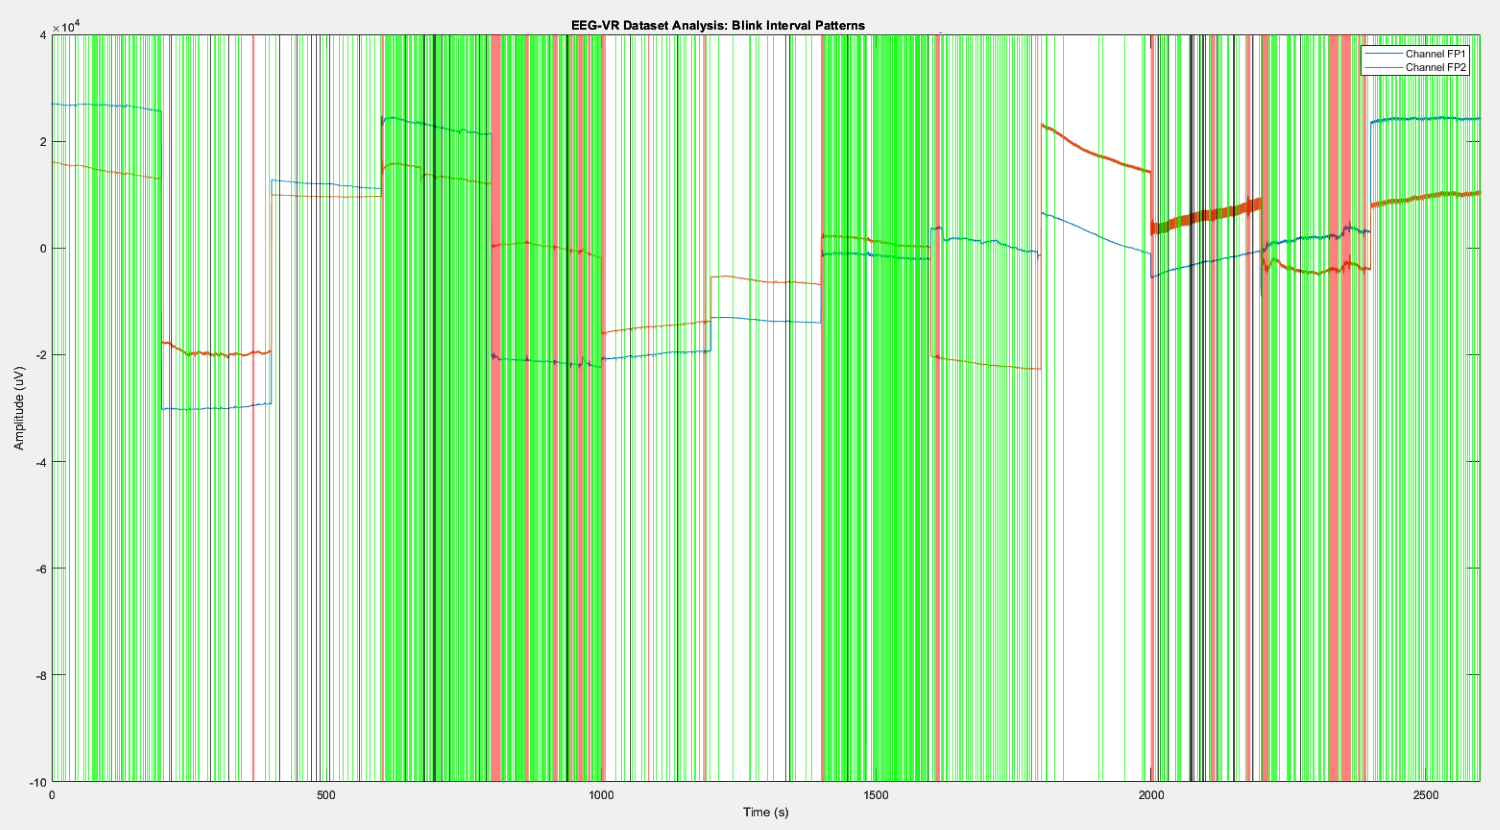
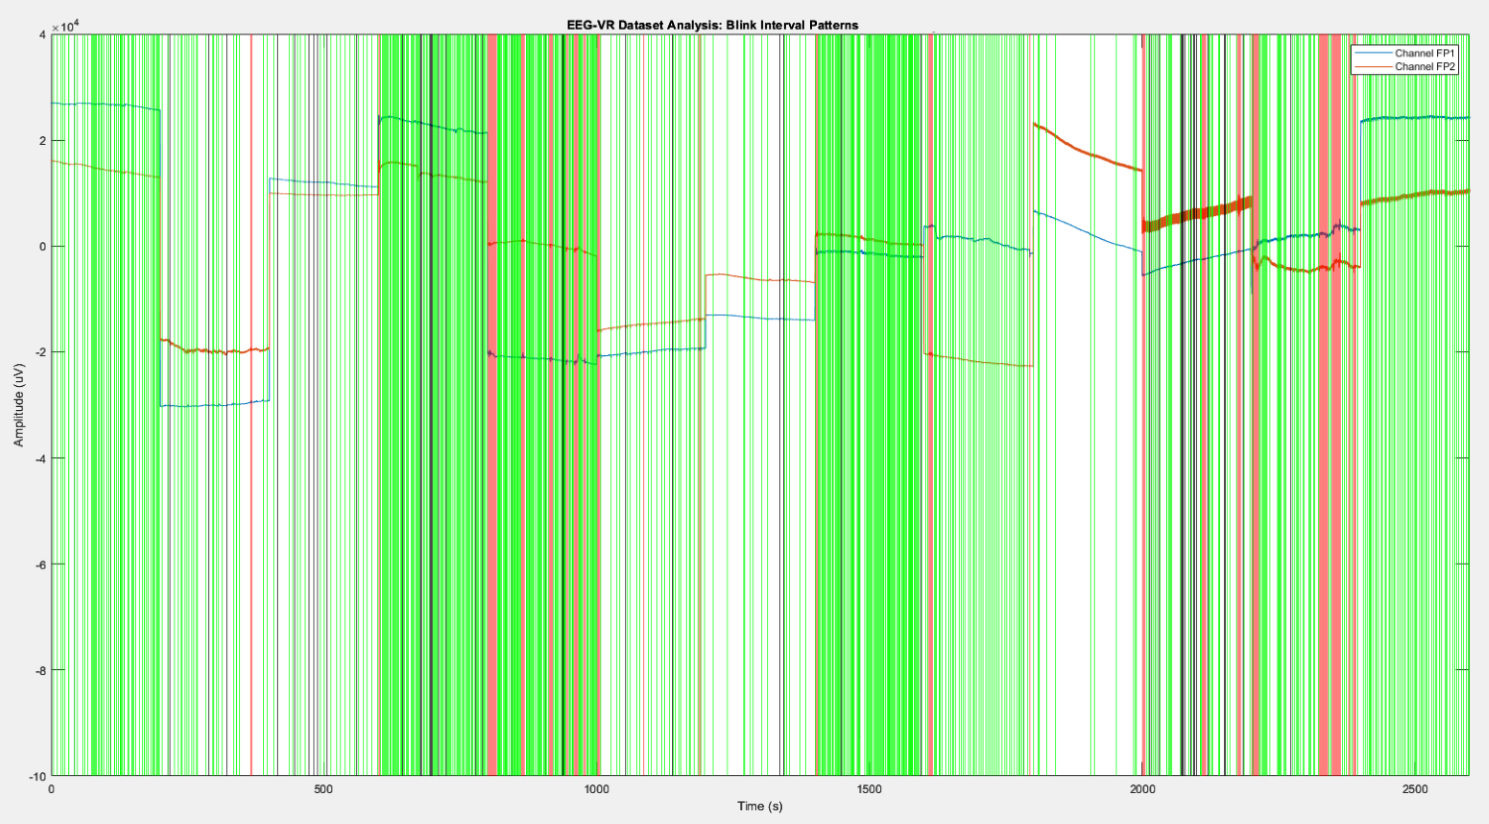
Image and conclusion update

diff --git a/README.md b/README.md
@@ -170,22 +170,24 @@ The EEG-VV and EEG-VR datasets consisted of involuntary eye-blinks (natural blin
 
 <table>
   <tr>
-    <td align="center">EEG-IO Blink interval patterns</td>
-    <td>
-      <img src="./imgs/GNAN_dataset/Raw_All_Subjects_EEG-IO.png" alt="GNAN raw data visualization IO" min-width="100px" max-width="300px" height="auto">
-    </td>
+    <td align="center"></td>
+    <td align="center">corrupt data with blink interval patterns</td>
+    <td align="center">corrupt data without blink interval patterns</td>
   </tr>
   <tr>
-    <td align="center">EEG-VR Blink interval patterns</td>
-    <td>
-      <img src="./imgs/GNAN_dataset/Raw_All_Subjects_EEG-VR.png" alt="GNAN raw data visualization VR" min-width="100px" max-width="300px" height="auto">
-    </td>
+    <td align="center">EEG-IO</td>
+    <td><img src="./imgs/GNAN_dataset/Raw_All_Subjects_EEG-IO.png" alt="GNAN raw data visualization IO" min-width="100px" max-width="300px" height="auto"></td>
+    <td><img src="./imgs/GNAN_dataset/Raw_Corrupt_All_Subjects_EEG-IO.png" alt="GNAN raw data visualization IO" min-width="100px" max-width="300px" height="auto"></td>
   </tr>
   <tr>
-    <td align="center">EEG-VV Blink interval patterns</td>
-    <td>
-      <img src="./imgs/GNAN_dataset/Raw_All_Subjects_EEG-VV.png" alt="GNAN raw data visualization VV" min-width="100px" max-width="300px" height="auto">
-    </td>
+    <td align="center">EEG-VR</td>
+    <td><img src="./imgs/GNAN_dataset/Raw_All_Subjects_EEG-VR.png" alt="GNAN raw data visualization VR" min-width="100px" max-width="300px" height="auto"></td>
+    <td><img src="./imgs/GNAN_dataset/Raw_Corrupt_All_Subjects_EEG-VR.png" alt="GNAN raw data visualization VR" min-width="100px" max-width="300px" height="auto"></td>
+  </tr>
+  <tr>
+    <td align="center">EEG-VV</td>
+    <td><img src="./imgs/GNAN_dataset/Raw_All_Subjects_EEG-VV.png" alt="GNAN raw data visualization VV" min-width="100px" max-width="300px" height="auto"></td>
+    <td><img src="./imgs/GNAN_dataset/Raw_Corrupt_All_Subjects_EEG-VV.png" alt="GNAN raw data visualization VV" min-width="100px" max-width="300px" height="auto"></td>
   </tr>
 </table>
 
@@ -361,26 +363,26 @@ In this project, we used the following software application:
 
 ### Configurable Options & Parameter
 
-#### Working with ```neuro-non-neural.ipynb``` or ```gnan-non-neural.ipynb```
+#### Working with `neuro-non-neural.ipynb` or `gnan-non-neural.ipynb`
 
-- Changing basic parameter: 
-  - ```channels```: adjust the channels in the EEG data
-  - ```Fs```: adjust sampling frequency of input
-  - ```eeg_band```: adjust the eeg_band used for extracting the Power Spectrum Density
+- Changing basic parameter:
+  - `channels`: adjust the channels in the EEG data
+  - `Fs`: adjust sampling frequency of input
+  - `eeg_band`: adjust the eeg_band used for extracting the Power Spectrum Density
 - Changing dataset input:
   - A empty dataframe is needed
   - Inserting the .mat data into the dataframe:
-    - Function: ```extract_data(filename, dataframe, is_voluntary)```
-    - ```filename```: the .mat file name without .mat
-    - ```dataframe```: the dataframe which will be inserted with records from .mat
-    - ```is_voluntary```: put 1 if the dataset is voluntary blinking or 0 if the dataset is involuntary blinking
+    - Function: `extract_data(filename, dataframe, is_voluntary)`
+    - `filename`: the .mat file name without .mat
+    - `dataframe`: the dataframe which will be inserted with records from .mat
+    - `is_voluntary`: put 1 if the dataset is voluntary blinking or 0 if the dataset is involuntary blinking
 - Selecting the model:
-  - Classification function is located in ```/function/classification.py```
-  - Function: ```model_training(input_x, input_y, model, test_size=0.3)```
-    - ```input_x```: features from the EEG data
-    - ```input_y```: whether eyeblink is voluntary (value = 1) or involuntary (value = 0)
-    - ```model```: **insert your model here**
-    - ```test_size```: you can also change the test size by changing this value (default = 0.3)
+  - Classification function is located in `/function/classification.py`
+  - Function: `model_training(input_x, input_y, model, test_size=0.3)`
+    - `input_x`: features from the EEG data
+    - `input_y`: whether eyeblink is voluntary (value = 1) or involuntary (value = 0)
+    - `model`: **insert your model here**
+    - `test_size`: you can also change the test size by changing this value (default = 0.3)
 
 ### How to Execute the Code
 
@@ -457,21 +459,17 @@ The classification performance per dataset summarized as follows:
 ![Framework](/imgs/neurocomputing_acc.png)
 ![Framework](/imgs/gnan_acc.png)
 
-Based on the experiment, by having the dataset
+Based on the results of our experiments, we have drawn the following conclusions:
 
-- By comparing the dataset, we found that the classifier accuracy when working on the Neurocomputing dataset is relatively higher
-  compared to the GNAN dataset. This happened because Neurocomputing dataset provides 14 channels input while GNAN dataset
-  input only has two-channel (Fp1 and Fp2). Although Fp1 and Fp2 have highest contribution in representing the eye-movement among other channels in EEG signal,
-  it is quite challenging for the non-neural network classifier to differentiate the voluntary and involuntary eye-blinking by only using two channels
-- Based on the results, neural network model provides superior classification in differentiating the voluntary and involuntary eye-blinking. Both of them ranked
-as the Top-2 classifier when working with our dataset.
-- By using the signal input, our Recurrent Neural Network (RNN-Signal) achieves best result with 95.53% of accuracies when working with Neurocomputing Dataset and
-  by using the power spectrum density input, the RNN-PSD achieves best result with 77.31% of accuracies when working with GNAN Dataset
-- In Neurocomputing Dataset, we found that **XGBoost** performs the best among other non-neural network classifier with the accuracy of **85.71%**
-- In GNAN dataset, we found that both **Logistic Regression and Support Vector Machine** performs the best among other non-neural network classifier
-  with the accuracy of **65.44%**
-- Overall, among the non-neural network classifier, **Logistic Regression and XGBoost** is the best candidate to be used on our BCI system
-  as they performed the best in one of the dataset and second best in another 
+- The classifier accuracy is relatively higher when working with the Neurocomputing dataset compared to the GNAN dataset. This difference can be attributed to the number of input channels. The Neurocomputing dataset provides 14 channels, while the GNAN dataset has only two channels (Fp1 and Fp2). Although Fp1 and Fp2 play a crucial role in representing eye movements in EEG signals, using only two channels poses a challenge for non-neural network classifiers to differentiate voluntary and involuntary eye-blinking accurately.
+
+- Based on the results, neural network models exhibit superior classification performance in differentiating voluntary and involuntary eye-blinking. Both neural network models ranked among the top classifiers when working with our dataset.
+
+- Our Recurrent Neural Network (RNN-Signal) achieved the best result with an accuracy of 95.53% when working with the Neurocomputing dataset, using signal input. On the other hand, the RNN-PSD achieved the best result with an accuracy of 77.31% when working with the GNAN dataset, using power spectrum density input.
+
+- Among the non-neural network classifiers, **XGBoost** performed the best in the Neurocomputing dataset with an accuracy of **85.71%**. In the GNAN dataset, both **Logistic Regression and Support Vector Machine (SVM)** outperformed other classifiers with an accuracy of **65.44%**.
+
+- Considering the performance of non-neural network classifiers, **Logistic Regression and XGBoost** emerge as the top candidates for our BCI system. Logistic Regression performed the best in the GNAN dataset, and XGBoost achieved the highest accuracy in the Neurocomputing dataset. These classifiers demonstrate promising performance and can be effectively utilized in our BCI system.
 
 ## References
 
